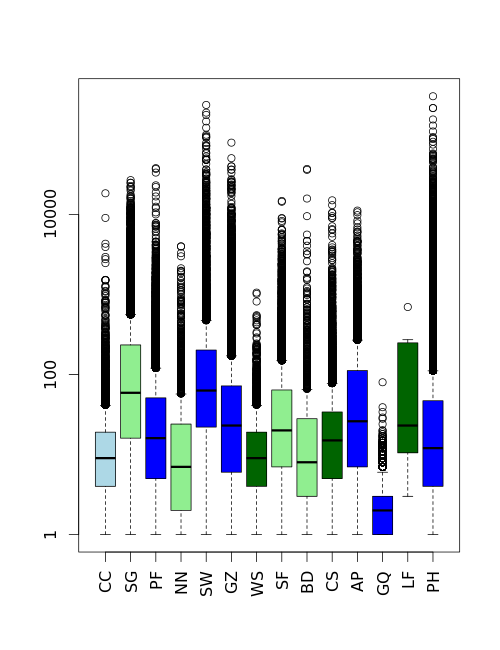
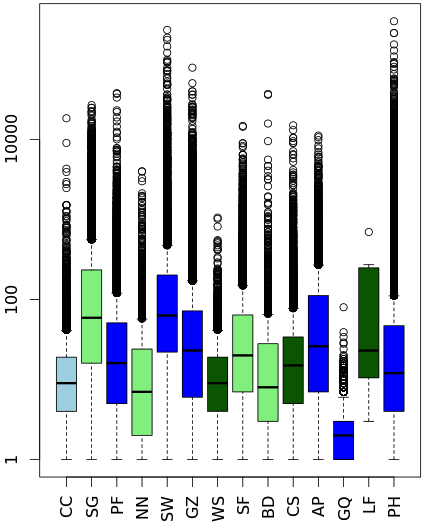
small changes with Fig 2

diff --git a/zooniverse-history.tex b/zooniverse-history.tex
@@ -468,7 +468,7 @@ However, even monotonous sequences of subjects sustained participation if they w
 
 \begin{figure}[htbp]
 \centering
-\includegraphics[width=0.4\textwidth]{imgs/boxplot_avg_classifications.png}
+\includegraphics[width=0.32\textwidth]{imgs/boxplot_avg_classifications.png}
 \caption{\emph{Average number of classifications per logged-in user} for recent Zooniverse projects Cyclone Center, Snapshot Serengeti, Planet Four, Notes from Nature, Space Warps, Galaxy Zoo 4, Worm Watch Lab, Seafloor Explorer, Bat Detective, Cell Slider, Andromeda Project, GalaxyZoo Quench, Ancient Lives, and Planet Hunters.}
 \label{fig:twopaths}
 \end{figure}
@@ -537,7 +537,7 @@ Unfortunately, adding a tutorial defeats the goal to \emph{getting users immedia
 
 The implication of these trials was the need for a method to orient users while performing real tasks without any preliminary introductory explanation steps. This led the team to design \emph{in-situ} task guidance, inspired by previous work (e.g. \cite{ockerman2000review}).  In Snapshot Serengeti, for example, the team created multiple \emph{interaction paths} within a single interface to support both new and experienced users; while new users could address a sequence of step-by-step questions such as ``Looks like (a horse)?'' that narrowed options down in ``40 questions'' manner, advanced users could directly select the relevant species they identified from an interface matrix.  
 
-A second problem pertained to lack of feedback to users about their performance.  Since feedback is generally necessary for skill improvement\cite{kluger1996effects}, the team selectively introduced, at a pre-determined frequency ``gold standard''  tutorial tasks on several projects, including Planet Hunters, the Andromeda Project, and Space Warps, that looked just like normal tasks, but were created by hand.  If the user failed to achieve the correct classification on these gold standard tasks, guidance in the form of a small explanations of the correct answer(s) were provided.   
+A second problem pertained to lack of feedback to users about their performance.  Since feedback is generally necessary for skill improvement \cite{kluger1996effects}, the team selectively introduced, at a pre-determined frequency ``gold standard''  tutorial tasks on several projects, including Planet Hunters, the Andromeda Project, and Space Warps, that looked just like normal tasks, but were created by hand.  If the user failed to achieve the correct classification on these gold standard tasks, guidance in the form of a small explanations of the correct answer(s) were provided.   
 
 The effect of the combination of these design decisions was that a significant amount of work could be achieved through the incremental contributions of one-time users.  The overwhelmingly large proportion of such users was reflected in the fact that an estimated 6,620,423 (or 52\%) of the Zooniverse classification database came from such transient users who never ultimately signed up to the systems - more than the contributions of regular users combined.  % This number would have been greatly diminished if the traditional approach of putting users through a tutorial process at the beginning of the tasks had been taken instead.
 
